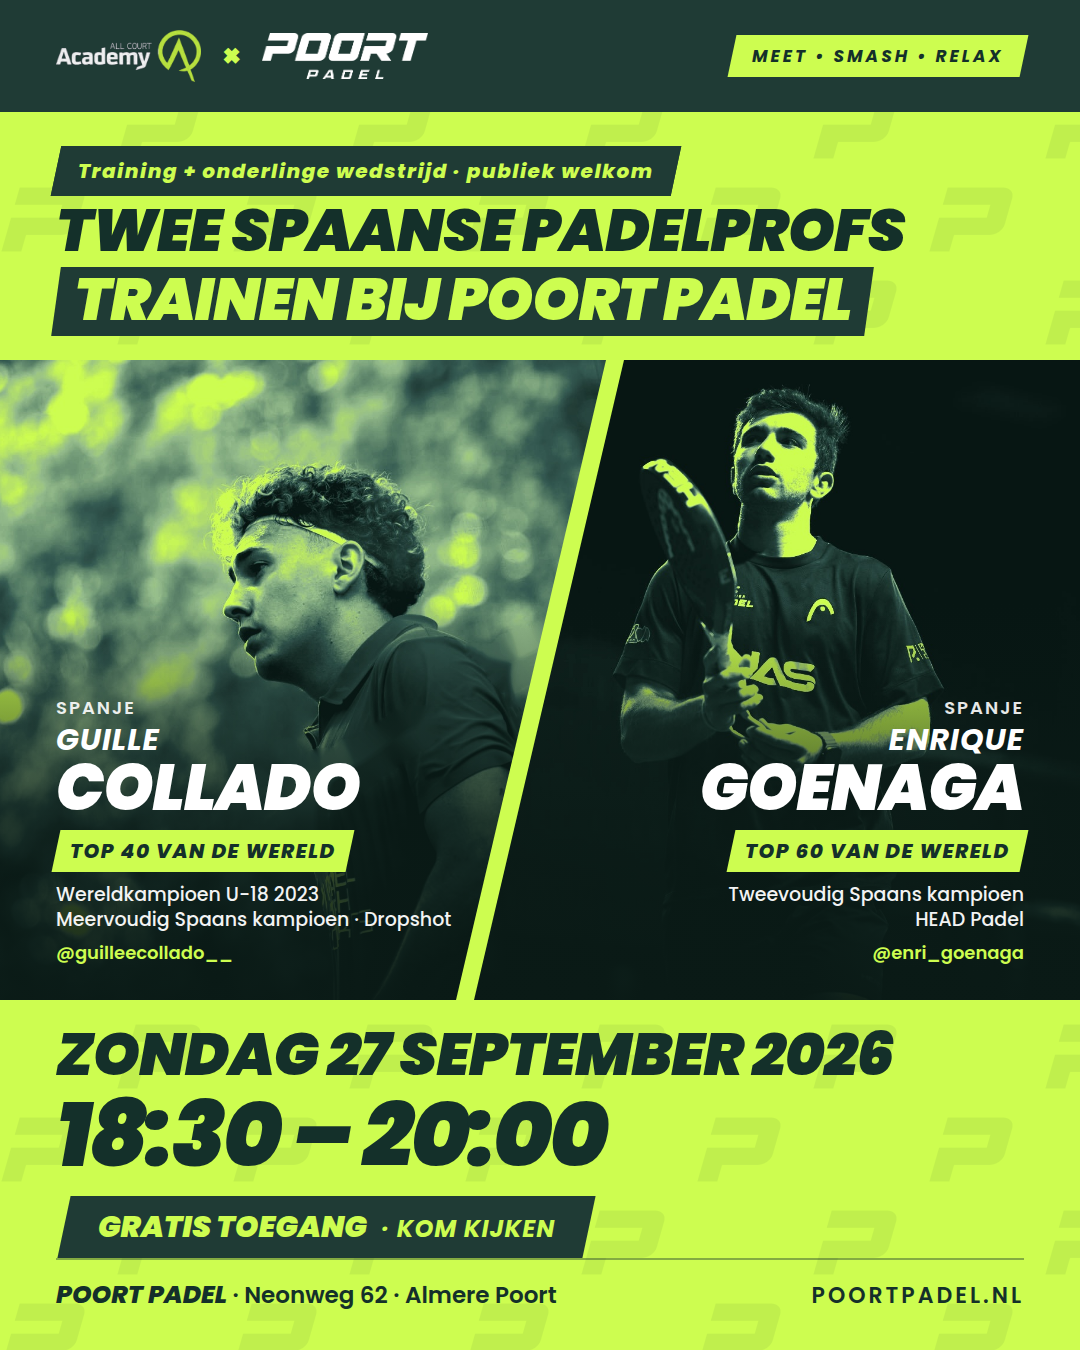
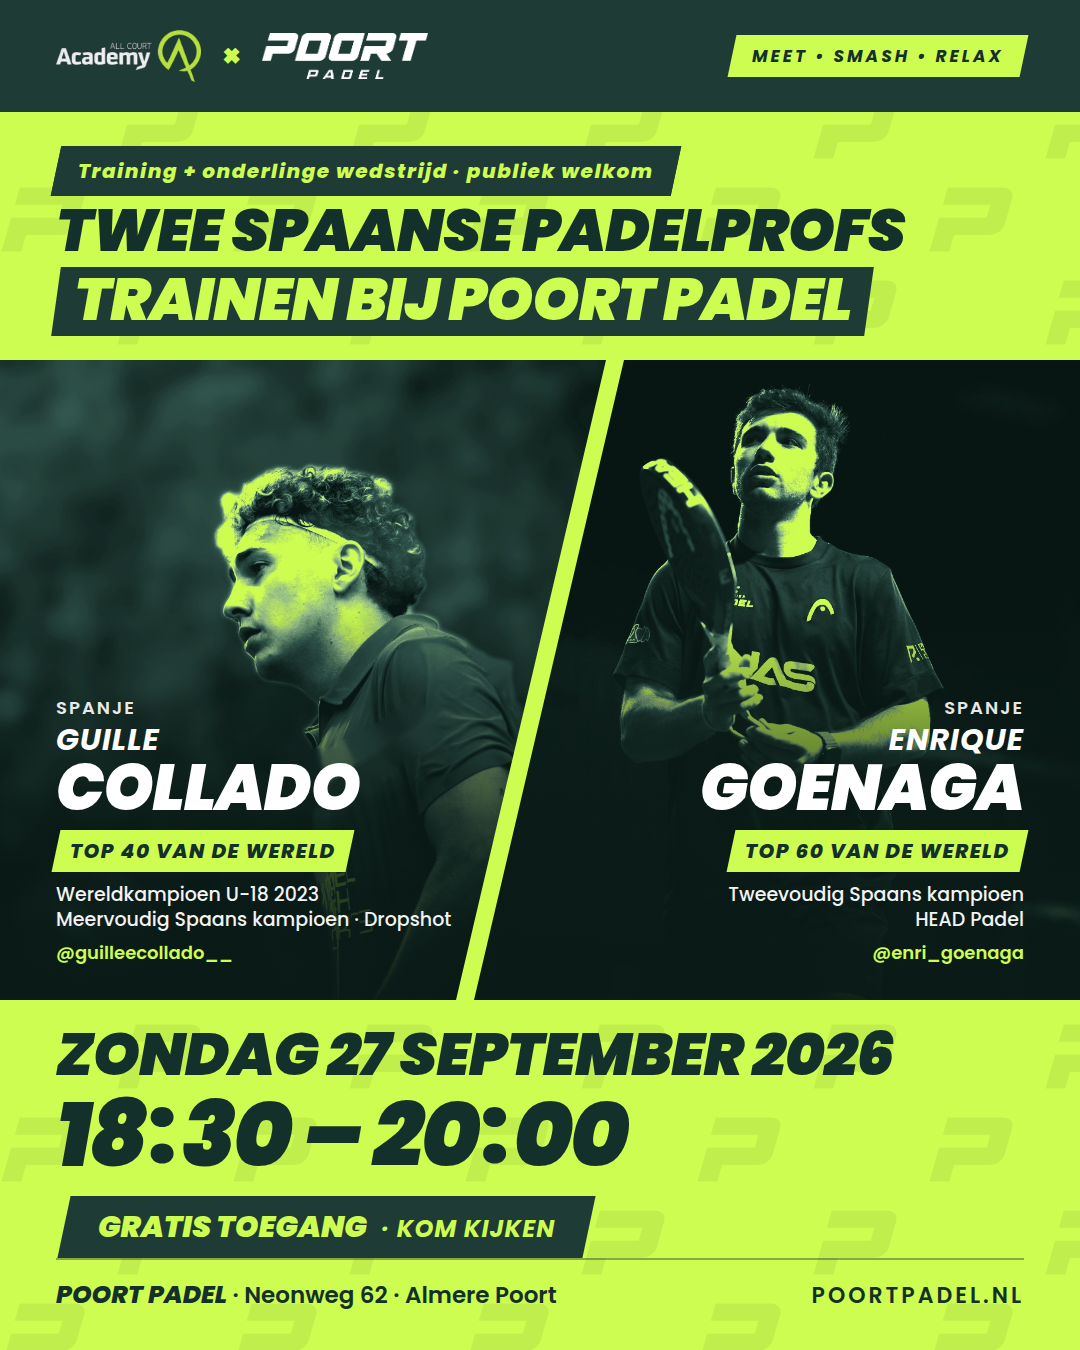
Poster Goenaga & Collado: achtergrond Collado gedempt, dubbele punten in tijd recht
GrabCut-masker om de persoon vrij te zetten en de bokeh erachter donker
en zacht te maken; dubbele punten rechtop met ruimte naast de cijfers.

Claude-Session: https://claude.ai/code/session_01XvRhSgAuPfNbbAXDCSXsBF

Changed region(s): [[0.0, 0.2489, 0.5806, 0.5911], [0.3361, 0.8089, 0.5806, 0.8711], [0.1222, 0.8089, 0.275, 0.8711]]

diff --git a/events/2026-poort-padel-goenaga-collado/poster-b.html b/events/2026-poort-padel-goenaga-collado/poster-b.html
@@ -23,6 +23,7 @@ body{font-family:"Poppins",Arial,sans-serif;color:var(--white);position:relative
 .kicker span{display:inline-block;transform:skewX(12deg)}
 .headline{font-weight:900;font-style:italic;line-height:1.02;letter-spacing:-1px}
 .lime{color:var(--lime)}
+.c{font-style:normal;letter-spacing:0;margin:0 .05em 0 .03em;position:relative;top:-.03em}
 .panel{position:absolute;overflow:hidden}
 .panel img{position:absolute;width:100%;height:100%;object-fit:cover}
 .panel::after{content:"";position:absolute;left:0;right:0;bottom:0;height:62%;background:linear-gradient(to top,rgba(10,26,22,.96) 0%,rgba(10,26,22,.75) 45%,rgba(10,26,22,0) 100%)}
@@ -67,7 +68,7 @@ body{font-family:"Poppins",Arial,sans-serif;color:var(--white);position:relative
   <div class="tag"><span>MEET • SMASH • RELAX</span></div>
 </div>
 <div class="datebox upper">
-  <div><div class="date">Zondag 27 september 2026</div><div class="time">18:30 – 20:00</div></div>
+  <div><div class="date">Zondag 27 september 2026</div><div class="time">18<span class="c">:</span>30 – 20<span class="c">:</span>00</div></div>
   <div class="free">Gratis toegang<small>kom kijken</small></div>
 </div>
 <div class="headline upper">Twee Spaanse padelprofs<br><span class="lime">trainen bij Poort Padel</span></div>

diff --git a/events/2026-poort-padel-goenaga-collado/poster-c.html b/events/2026-poort-padel-goenaga-collado/poster-c.html
@@ -23,6 +23,7 @@ body{font-family:"Poppins",Arial,sans-serif;color:var(--white);position:relative
 .kicker span{display:inline-block;transform:skewX(12deg)}
 .headline{font-weight:900;font-style:italic;line-height:1.02;letter-spacing:-1px}
 .lime{color:var(--lime)}
+.c{font-style:normal;letter-spacing:0;margin:0 .05em 0 .03em;position:relative;top:-.03em}
 .panel{position:absolute;overflow:hidden}
 .panel img{position:absolute;width:100%;height:100%;object-fit:cover}
 .panel::after{content:"";position:absolute;left:0;right:0;bottom:0;height:62%;background:linear-gradient(to top,rgba(10,26,22,.96) 0%,rgba(10,26,22,.75) 45%,rgba(10,26,22,0) 100%)}
@@ -92,7 +93,7 @@ body{font-family:"Poppins",Arial,sans-serif;color:var(--white);position:relative
   </div>
 </div>
 <div class="when upper">
-  <div><div class="date">Zondag 27 september 2026</div><div class="time">18:30 – 20:00</div></div>
+  <div><div class="date">Zondag 27 september 2026</div><div class="time">18<span class="c">:</span>30 – 20<span class="c">:</span>00</div></div>
   <div class="cta"><span>Gratis toegang<small>kom kijken</small></span></div>
 </div>
 <div class="footer"><div class="where"><b>POORT PADEL</b> · Neonweg 62 · Almere Poort</div><div class="site upper">poortpadel.nl</div></div>

diff --git a/events/2026-poort-padel-goenaga-collado/poster-a.html b/events/2026-poort-padel-goenaga-collado/poster-a.html
@@ -23,6 +23,7 @@ body{font-family:"Poppins",Arial,sans-serif;color:var(--white);position:relative
 .kicker span{display:inline-block;transform:skewX(12deg)}
 .headline{font-weight:900;font-style:italic;line-height:1.02;letter-spacing:-1px}
 .lime{color:var(--lime)}
+.c{font-style:normal;letter-spacing:0;margin:0 .05em 0 .03em;position:relative;top:-.03em}
 .panel{position:absolute;overflow:hidden}
 .panel img{position:absolute;width:100%;height:100%;object-fit:cover}
 .panel::after{content:"";position:absolute;left:0;right:0;bottom:0;height:62%;background:linear-gradient(to top,rgba(10,26,22,.96) 0%,rgba(10,26,22,.75) 45%,rgba(10,26,22,0) 100%)}
@@ -88,7 +89,7 @@ body{font-family:"Poppins",Arial,sans-serif;color:var(--white);position:relative
 </div>
 <div class="when upper">
   <div class="date">Zondag 27 september 2026</div>
-  <div class="time">18:30 – 20:00</div>
+  <div class="time">18<span class="c">:</span>30 – 20<span class="c">:</span>00</div>
   <div class="cta"><span>Gratis toegang <small>· kom kijken</small></span></div>
 </div>
 <div class="footer"><div class="where"><b>POORT PADEL</b> · Neonweg 62 · Almere Poort</div><div class="site upper">poortpadel.nl</div></div>

diff --git a/events/2026-poort-padel-goenaga-collado/poster-d.html b/events/2026-poort-padel-goenaga-collado/poster-d.html
@@ -23,6 +23,7 @@ body{font-family:"Poppins",Arial,sans-serif;color:var(--white);position:relative
 .kicker span{display:inline-block;transform:skewX(12deg)}
 .headline{font-weight:900;font-style:italic;line-height:1.02;letter-spacing:-1px}
 .lime{color:var(--lime)}
+.c{font-style:normal;letter-spacing:0;margin:0 .05em 0 .03em;position:relative;top:-.03em}
 .panel{position:absolute;overflow:hidden}
 .panel img{position:absolute;width:100%;height:100%;object-fit:cover}
 .panel::after{content:"";position:absolute;left:0;right:0;bottom:0;height:62%;background:linear-gradient(to top,rgba(10,26,22,.96) 0%,rgba(10,26,22,.75) 45%,rgba(10,26,22,0) 100%)}
@@ -96,7 +97,7 @@ body{color:var(--ink)}
 </div>
 <div class="when upper">
   <div class="date">Zondag 27 september 2026</div>
-  <div class="time">18:30 – 20:00</div>
+  <div class="time">18<span class="c">:</span>30 – 20<span class="c">:</span>00</div>
   <div class="cta"><span>Gratis toegang <small>· kom kijken</small></span></div>
 </div>
 <div class="footer"><div class="where"><b>POORT PADEL</b> · Neonweg 62 · Almere Poort</div><div class="site upper">poortpadel.nl</div></div>

diff --git a/events/2026-poort-padel-goenaga-collado/build_clean_collado.py b/events/2026-poort-padel-goenaga-collado/build_clean_collado.py
@@ -15,3 +15,19 @@ mask = cv2.dilate(mask, np.ones((11, 11), np.uint8), iterations=2)
 out = cv2.inpaint(im, mask, 12, cv2.INPAINT_TELEA)
 cv2.imwrite('build/collado-profile-clean.jpg', out, [cv2.IMWRITE_JPEG_QUALITY, 95])
 print('klaar, maskerpixels:', int(mask.sum() / 255))
+
+# --- achtergrond rustig maken: persoon vrijstaand (GrabCut), bokeh erachter donker en zacht ---
+mask2 = np.zeros((h, w), np.uint8)
+bgd, fgd = np.zeros((1, 65), np.float64), np.zeros((1, 65), np.float64)
+cv2.grabCut(out, mask2, (230, 90, 850, 990), bgd, fgd, 8, cv2.GC_INIT_WITH_RECT)
+fg = np.where((mask2 == cv2.GC_FGD) | (mask2 == cv2.GC_PR_FGD), 255, 0).astype(np.uint8)
+fg = cv2.morphologyEx(fg, cv2.MORPH_OPEN, np.ones((7, 7), np.uint8))
+fg = cv2.morphologyEx(fg, cv2.MORPH_CLOSE, np.ones((15, 15), np.uint8))
+n, lab, stats, _ = cv2.connectedComponentsWithStats(fg)          # alleen het grootste stuk (de persoon) houden
+fg = np.where(lab == 1 + np.argmax(stats[1:, cv2.CC_STAT_AREA]), 255, 0).astype(np.uint8)
+alpha = cv2.GaussianBlur(fg, (0, 0), 4).astype(np.float32)[:, :, None] / 255.0
+bg = cv2.GaussianBlur(out, (0, 0), 9).astype(np.float32) * 0.38  # donkerder en zachter, stippen verdwijnen
+comp = out.astype(np.float32) * alpha + bg * (1 - alpha)
+cv2.imwrite('build/collado-profile-clean.jpg', comp.astype(np.uint8), [cv2.IMWRITE_JPEG_QUALITY, 95])
+cv2.imwrite('build/collado-mask.png', fg)
+print('achtergrond gedempt')

diff --git a/events/2026-poort-padel-goenaga-collado/build_variants.py b/events/2026-poort-padel-goenaga-collado/build_variants.py
@@ -8,7 +8,7 @@ T = {
     'h2': 'trainen bij Poort Padel',
     'lead': 'Kom kijken naar hun training en hun onderlinge wedstrijd in Almere Poort.',
     'date': 'Zondag 27 september 2026',
-    'time': '18:30 – 20:00',
+    'time': '18<span class="c">:</span>30 – 20<span class="c">:</span>00',  # dubbele punt rechtop en met ruimte (class c)
     'cta': 'Gratis toegang',
     'cta2': 'kom kijken',
     'where': 'Neonweg 62 · Almere Poort',
@@ -67,6 +67,7 @@ body{font-family:"Poppins",Arial,sans-serif;color:var(--white);position:relative
 .kicker span{display:inline-block;transform:skewX(12deg)}
 .headline{font-weight:900;font-style:italic;line-height:1.02;letter-spacing:-1px}
 .lime{color:var(--lime)}
+.c{font-style:normal;letter-spacing:0;margin:0 .05em 0 .03em;position:relative;top:-.03em}
 .panel{position:absolute;overflow:hidden}
 .panel img{position:absolute;width:100%;height:100%;object-fit:cover}
 .panel::after{content:"";position:absolute;left:0;right:0;bottom:0;height:62%;background:linear-gradient(to top,rgba(10,26,22,.96) 0%,rgba(10,26,22,.75) 45%,rgba(10,26,22,0) 100%)}

diff --git a/events/2026-poort-padel-goenaga-collado/README.md b/events/2026-poort-padel-goenaga-collado/README.md
@@ -173,3 +173,8 @@ Definitief bestand voor Instagram: `poster-a-1080x1350.png`; voor scherm of prin
 ## Lensflare bij Collado weggewerkt (22 september 2026)
 
 Op `collado-profile.jpg` loopt een lichte streep (lensflare) over borst en bovenarm; in duotone werd dat een lime streep "door zijn arm". `build_clean_collado.py` werkt die weg met OpenCV-inpainting (masker: lichte of verbleekte pixels binnen een smalle strook langs de flare, het blauwe shirt blijft staan) en schrijft `build/collado-profile-clean.jpg`. `build_duotone.py` gebruikt sindsdien die schone versie. Volgorde bij een nieuwe foto: `build_clean_collado.py` (alleen als er iets weg moet), `build_duotone.py`, `build_variants.py`, `render.sh`.
+
+## Rustiger achtergrond bij Collado en dubbele punten in de tijd (22 september 2026)
+
+- De bokeh-stippen achter Collado werden in duotone lime en trokken de aandacht. `build_clean_collado.py` maakt de persoon nu vrijstaand (GrabCut) en zet de achtergrond erachter donker en zacht; het masker staat in `build/collado-mask.png`. Hoeveel de achtergrond gedempt wordt regel je met de factor `0.38` en de blur `9` in dat script.
+- De dubbele punten in "18:30 – 20:00" stonden schuin tegen de 8 en de 0 aan. Ze staan nu rechtop met wat ruimte (class `c` in `build_variants.py`).
